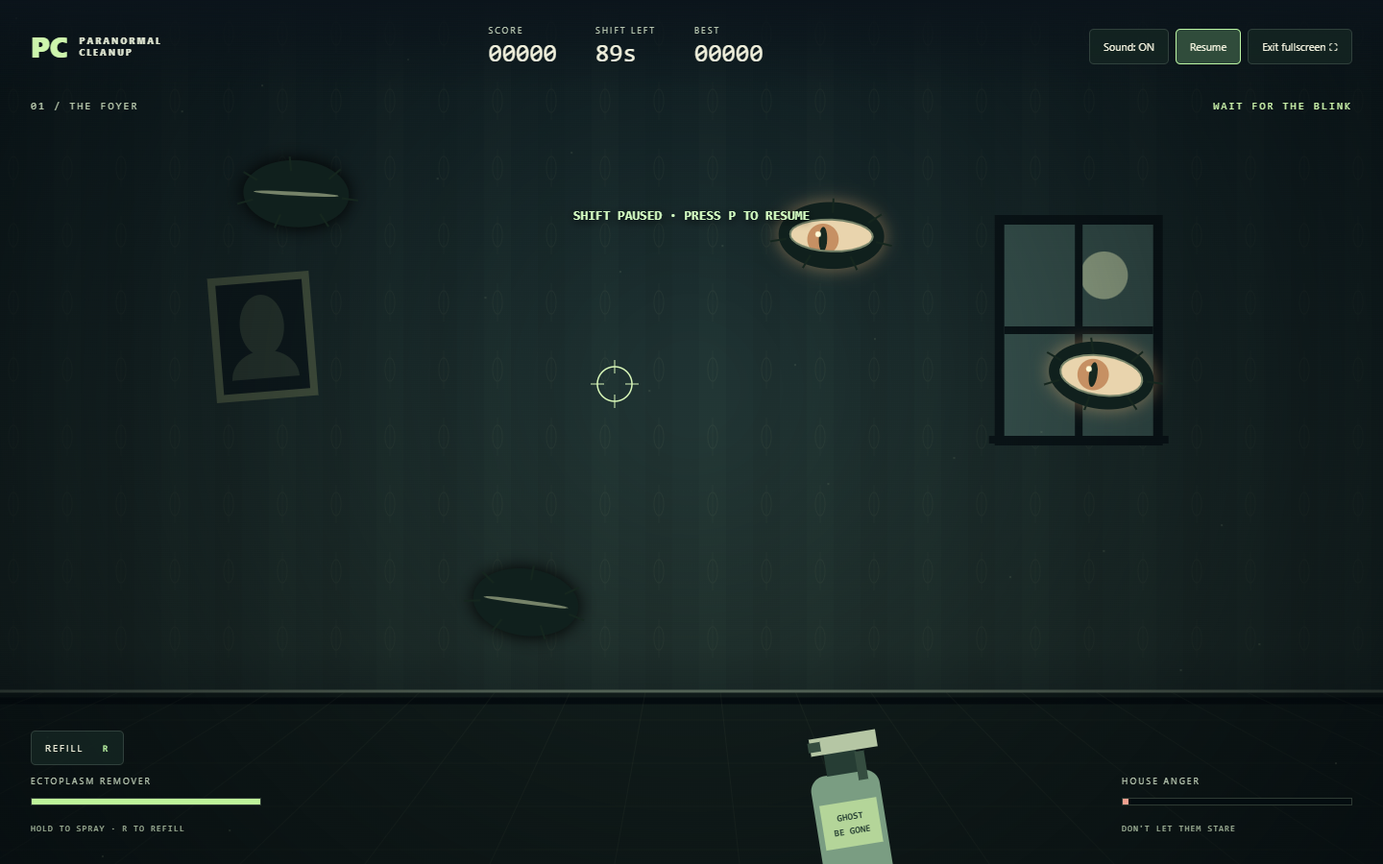
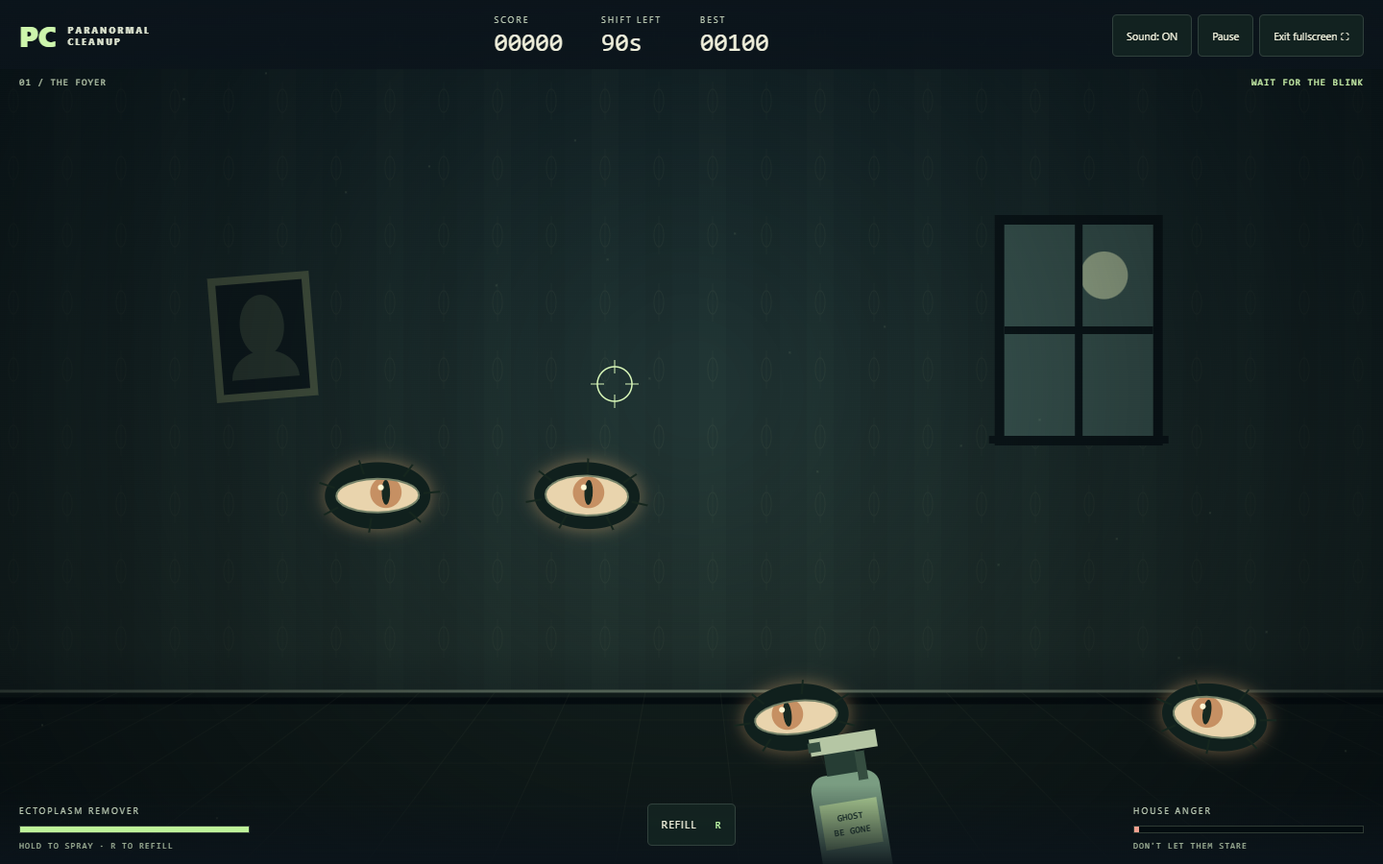
Fix fullscreen, responsive layout and input reliability

diff --git a/game.js b/game.js
@@ -5,22 +5,75 @@
   const $ = id => document.getElementById(id);
   let width=1280,height=800,dpr=1,last=0,clock=0,state='menu',eyes=[],particles=[],labels=[];
   let score=0,cleaned=0,combo=0,maxCombo=0,tank=100,anger=0,remaining=90,spawn=0,refilling=0,shot=0,muted=false,audio;
-  let best=0; try { best=Number(localStorage.getItem('paranormal-cleanup-best'))||0; } catch {}
+  let best=0; try { const saved=Number(localStorage.getItem('paranormal-cleanup-best'));if(Number.isFinite(saved)&&saved>=0)best=Math.floor(saved); } catch {}
   const aim={x:640,y:400,held:false},keys=new Set();
+  let activePointer=null, fullscreenPending=false;
+  let playArea={left:0,right:1280,top:120,bottom:670};
+  const game=$('game');
+  function releaseInput(){aim.held=false;activePointer=null;keys.clear();}
+  function eyeRadius(){return clamp(Math.min(width/15,(playArea.bottom-playArea.top)/4),12,43);}
+  function slots(){
+    const r=eyeRadius(), gap=r*2+20;
+    const columns=Math.max(1,Math.floor((playArea.right-playArea.left)/gap));
+    const rows=Math.max(1,Math.floor((playArea.bottom-playArea.top)/gap));
+    const positions=[];
+    for(let row=0;row<rows;row++)for(let column=0;column<columns;column++)positions.push({u:(column+.5)/columns,v:(row+.5)/rows});
+    return positions;
+  }
+  function positionEye(e){e.r=eyeRadius();e.x=playArea.left+e.u*(playArea.right-playArea.left);e.y=playArea.top+e.v*(playArea.bottom-playArea.top);}
+  function layoutEyes(){
+    const positions=slots();
+    // Keep targets separated after rotation; small viewports have fewer targets.
+    eyes=eyes.slice(0,positions.length);
+    eyes.forEach(e=>{positions.sort((a,b)=>Math.hypot(a.u-e.u,a.v-e.v)-Math.hypot(b.u-e.u,b.v-e.v));Object.assign(e,positions.shift());positionEye(e);});
+  }
+  function focusScene(){canvas.focus({preventScroll:true});}
+  function notify(message){$('toast').textContent=message;setTimeout(()=>{if(state!=='paused'&&$('toast').textContent===message)$('toast').textContent='';},4000);}
+  async function enterFullscreen(){
+    if(document.fullscreenElement||document.webkitFullscreenElement||fullscreenPending)return;
+    const request=game.requestFullscreen||game.webkitRequestFullscreen;
+    if(!request){notify('Fullscreen is not supported here. The game still fills the available screen.');return;}
+    fullscreenPending=true;
+    try{await request.call(game);}catch{notify('Fullscreen is blocked here. Use the itch.io fullscreen launcher or open the game in its own tab.');}
+    finally{fullscreenPending=false;resize();}
+  }
+  function beginShift(){start();void enterFullscreen();}
   const rooms=['THE FOYER','THE PARLOR','THE ATTIC'];
   const random=(a,b)=>a+Math.random()*(b-a), clamp=(v,a,b)=>Math.max(a,Math.min(b,v));
-  function resize(){width=innerWidth;height=innerHeight;dpr=Math.min(devicePixelRatio||1,2);canvas.width=width*dpr;canvas.height=height*dpr;ctx.setTransform(dpr,0,0,dpr,0,0);aim.x=clamp(aim.x,0,width);aim.y=clamp(aim.y,0,height);eyes.forEach(e=>{e.x=e.u*width;e.y=e.v*height;});}
-  addEventListener('resize',resize); resize();
+  function resize(){
+    const bounds=game.getBoundingClientRect();
+    width=Math.max(1,bounds.width);height=Math.max(1,bounds.height);
+    dpr=Math.min(devicePixelRatio||1,2);
+    canvas.width=Math.round(width*dpr);canvas.height=Math.round(height*dpr);ctx.setTransform(dpr,0,0,dpr,0,0);
+    const headerBottom=document.querySelector('.hud').getBoundingClientRect().bottom-bounds.top;
+    game.style.setProperty('--hud-bottom',headerBottom+'px');
+    const statusBottom=document.querySelector('.status').getBoundingClientRect().bottom-bounds.top;
+    const footerTop=document.querySelector('.equipment').getBoundingClientRect().top-bounds.top;
+    playArea={left:12,right:Math.max(13,width-12),top:Math.min(statusBottom+12,height-1),bottom:Math.max(statusBottom+13,footerTop-12)};
+    // In very short embeds, reserve a reachable strip rather than invert aim limits.
+    playArea.top=clamp(playArea.top,0,height-2);playArea.bottom=clamp(playArea.bottom,playArea.top+1,height);
+    aim.x=clamp(aim.x,playArea.left,playArea.right);aim.y=clamp(aim.y,playArea.top,playArea.bottom);
+    layoutEyes();
+  }
+  addEventListener('resize',resize);
+  if(window.visualViewport)window.visualViewport.addEventListener('resize',resize);
+  if(window.ResizeObserver){const observer=new ResizeObserver(resize);observer.observe(game);observer.observe(document.querySelector('.hud'));observer.observe(document.querySelector('.equipment'));}
+  resize();
   function sound(freq,duration=.08,type='sine',volume=.025){if(muted)return;try{audio ||= new (window.AudioContext||window.webkitAudioContext)();audio.resume();const o=audio.createOscillator(),g=audio.createGain();o.type=type;o.frequency.setValueAtTime(freq,audio.currentTime);o.frequency.exponentialRampToValueAtTime(Math.max(30,freq/2),audio.currentTime+duration);g.gain.setValueAtTime(volume,audio.currentTime);g.gain.exponentialRampToValueAtTime(.001,audio.currentTime+duration);o.connect(g);g.connect(audio.destination);o.start();o.stop(audio.currentTime+duration);}catch{}}
-  function addEye(){const top=Math.min(.34,140/height),bottom=Math.max(top+.12,1-155/height);let u,v;for(let n=0;n<30;n++){u=random(.1,.9);v=random(top,bottom);if(eyes.every(e=>Math.hypot(e.x-u*width,e.y-v*height)>80))break;}eyes.push({u,v,x:u*width,y:v*height,r:clamp(width/22,24,43),age:0,offset:random(0,3),hp:1,seed:random(0,10)});}
+  function addEye(){
+    const positions=slots().filter(p=>eyes.every(e=>Math.abs(e.u-p.u)>.001||Math.abs(e.v-p.v)>.001));
+    if(!positions.length)return;
+    const p=positions[Math.floor(Math.random()*positions.length)];
+    const e={...p,r:eyeRadius(),age:0,offset:random(0,3),hp:1,seed:random(0,10)};positionEye(e);eyes.push(e);
+  }
   function openness(e){return clamp((Math.sin((e.age+e.offset)*2.4)-.1)*2.4,0,1);}
-  function hud(){$('score').textContent=String(score).padStart(5,'0');$('time').textContent=Math.ceil(remaining)+'s';$('best').textContent=String(best).padStart(5,'0');$('tank').style.width=tank+'%';$('anger').style.width=anger+'%';$('tankLabel').textContent=refilling>0?'REFILLING…':tank<1?'EMPTY · R TO REFILL':'HOLD TO SPRAY · R TO REFILL';$('room').textContent=`0${Math.min(3,1+Math.floor((90-remaining)/30))} / ${rooms[Math.min(2,Math.floor((90-remaining)/30))]}`;$('combo').textContent=combo>1?`CLEAN STREAK ×${combo}`:'WAIT FOR THE BLINK';}
-  function start(){state='playing';eyes=[];particles=[];labels=[];score=cleaned=combo=maxCombo=anger=refilling=shot=0;tank=100;remaining=90;spawn=.7;aim.held=false;keys.clear();for(let i=0;i<3;i++)addEye();$('overlay').classList.add('hidden');$('pause').textContent='Pause';sound(400,.15);hud();}
+  function hud(){$('pause').disabled=state!=='playing'&&state!=='paused';$('refill').disabled=state!=='playing'||refilling>0;$('score').textContent=String(score).padStart(5,'0');$('time').textContent=Math.ceil(remaining)+'s';$('best').textContent=String(best).padStart(5,'0');$('tank').style.width=tank+'%';$('anger').style.width=anger+'%';$('tankLabel').textContent=refilling>0?'REFILLING…':tank<1?'EMPTY · R TO REFILL':'HOLD TO SPRAY · R TO REFILL';$('room').textContent=`0${Math.min(3,1+Math.floor((90-remaining)/30))} / ${rooms[Math.min(2,Math.floor((90-remaining)/30))]}`;$('combo').textContent=combo>1?`CLEAN STREAK ×${combo}`:'WAIT FOR THE BLINK';}
+  function start(){state='playing';eyes=[];particles=[];labels=[];score=cleaned=combo=maxCombo=anger=refilling=shot=0;tank=100;remaining=90;spawn=.7;releaseInput();$('toast').textContent='';resize();for(let i=0;i<3;i++)addEye();$('overlay').classList.add('hidden');$('pause').textContent='Pause';sound(400,.15);hud();focusScene();}
   function refill(){if(state!=='playing'||refilling>0||tank>=99)return;refilling=1.3;aim.held=false;sound(180,.2,'triangle');}
-  function pause(){if(state!=='playing'&&state!=='paused')return;state=state==='playing'?'paused':'playing';aim.held=false;keys.clear();$('pause').textContent=state==='paused'?'Resume':'Pause';$('toast').textContent=state==='paused'?'SHIFT PAUSED · PRESS P TO RESUME':'';}
-  function finish(win){state='over';aim.held=false;const newBest=score>best;best=Math.max(best,score);try{localStorage.setItem('paranormal-cleanup-best',String(best));}catch{}hud();sound(win?650:100,.5,'triangle');$('overlay').innerHTML=`<div class="menu"><p class="eyebrow">MIDNIGHT MAINTENANCE CO. / SHIFT REPORT</p><h1>${win?'SHIFT':'HOUSE'}<br><em>${win?'COMPLETE':'AWAKENED'}</em></h1><p class="tagline">${win?'Another night. Another suspiciously clean house.':'You let the walls stare a little too long.'}</p><div class="result-grid"><div><small>FINAL SCORE</small><strong class="result">${score.toLocaleString()}</strong></div><div><small>EYES CLEANED</small><strong class="result">${cleaned}</strong></div><div><small>BEST STREAK</small><strong class="result">×${maxCombo}</strong></div></div><p class="result">${newBest?'✦ New personal best! ':''}${win?'Your shift is over. The infestation will return.':'Catch open eyes quickly to keep the house calm.'}</p><button class="primary" id="again">CLOCK IN AGAIN <span>→</span></button><p class="fine">TRIJAM #393 · THE WALLS HAVE EYES</p></div>`;$('overlay').classList.remove('hidden');$('again').onclick=start;}
-  function spray(){tank=Math.max(0,tank-1.25);sound(random(600,1000),.035,'sawtooth',.009);let hit=false;for(const e of eyes){if(Math.hypot(e.x-aim.x,e.y-aim.y)<e.r+20&&openness(e)>.55){hit=true;e.hp-=.34;for(let i=0;i<8;i++)particles.push({x:e.x,y:e.y,vx:random(-100,100),vy:random(-100,100),life:random(.2,.6),color:'#c4f7a2'});if(e.hp<=0){combo++;maxCombo=Math.max(combo,maxCombo);const points=100+Math.min(combo-1,10)*25;score+=points;cleaned++;anger=Math.max(0,anger-6);labels.push({x:e.x,y:e.y,text:'+'+points,life:1});sound(400+combo*25,.12,'triangle');}}}eyes=eyes.filter(e=>e.hp>0);if(!hit)combo=0;for(let i=0;i<5;i++)particles.push({x:aim.x+random(-20,20),y:aim.y+random(-20,20),vx:random(-35,35),vy:random(-60,20),life:.3,color:'#9ee0d3'});}
-  function update(dt){clock+=dt;if(state!=='playing')return;remaining=Math.max(0,remaining-dt);const speed=360*dt;if(keys.has('ArrowLeft')||keys.has('a'))aim.x-=speed;if(keys.has('ArrowRight')||keys.has('d'))aim.x+=speed;if(keys.has('ArrowUp')||keys.has('w'))aim.y-=speed;if(keys.has('ArrowDown')||keys.has('s'))aim.y+=speed;aim.x=clamp(aim.x,0,width);aim.y=clamp(aim.y,120,height-130);eyes.forEach(e=>e.age+=dt);spawn-=dt;const level=Math.floor((90-remaining)/30);if(spawn<=0){if(eyes.length<7+level*2)addEye();spawn=Math.max(.8,2.2-level*.45);}anger=clamp(anger+dt*(eyes.reduce((n,e)=>n+(openness(e)>.55?1:0),0)*.9+.08),0,100);if(refilling>0){refilling-=dt;if(refilling<=0){refilling=0;tank=100;sound(550,.1);}}else if((aim.held||keys.has(' '))&&tank>0){shot-=dt;if(shot<=0){spray();shot=.07;}}else shot=0;particles.forEach(p=>{p.x+=p.vx*dt;p.y+=p.vy*dt;p.life-=dt;});particles=particles.filter(p=>p.life>0);labels.forEach(p=>{p.y-=25*dt;p.life-=dt;});labels=labels.filter(p=>p.life>0);hud();if(anger>=100)finish(false);else if(remaining<=0)finish(true);}
+  function pause(){if(state!=='playing'&&state!=='paused')return;state=state==='playing'?'paused':'playing';releaseInput();focusScene();$('pause').textContent=state==='paused'?'Resume':'Pause';$('toast').textContent=state==='paused'?'SHIFT PAUSED · PRESS P TO RESUME':'';}
+  function finish(win){state='over';releaseInput();$('toast').textContent='';const newBest=score>best;best=Math.max(best,score);try{localStorage.setItem('paranormal-cleanup-best',String(best));}catch{}hud();sound(win?650:100,.5,'triangle');$('overlay').innerHTML=`<div class="menu"><p class="eyebrow">MIDNIGHT MAINTENANCE CO. / SHIFT REPORT</p><h1>${win?'SHIFT':'HOUSE'}<br><em>${win?'COMPLETE':'AWAKENED'}</em></h1><p class="tagline">${win?'Another night. Another suspiciously clean house.':'You let the walls stare a little too long.'}</p><div class="result-grid"><div><small>FINAL SCORE</small><strong class="result">${score.toLocaleString()}</strong></div><div><small>EYES CLEANED</small><strong class="result">${cleaned}</strong></div><div><small>BEST STREAK</small><strong class="result">×${maxCombo}</strong></div></div><p class="result">${newBest?'✦ New personal best! ':''}${win?'Your shift is over. The infestation will return.':'Catch open eyes quickly to keep the house calm.'}</p><button class="primary" id="again">CLOCK IN AGAIN <span>→</span></button><p class="fine">TRIJAM #393 · THE WALLS HAVE EYES</p></div>`;$('overlay').classList.remove('hidden');$('again').onclick=beginShift;$('again').focus({preventScroll:true});}
+  function spray(){tank=Math.max(0,tank-1.25);sound(random(600,1000),.035,'sawtooth',.009);let hit=false;for(const e of eyes){if(Math.hypot(e.x-aim.x,e.y-aim.y)<e.r+10&&openness(e)>.55){hit=true;e.hp-=.34;for(let i=0;i<8;i++)particles.push({x:e.x,y:e.y,vx:random(-100,100),vy:random(-100,100),life:random(.2,.6),color:'#c4f7a2'});if(e.hp<=0){combo++;maxCombo=Math.max(combo,maxCombo);const points=100+Math.min(combo-1,10)*25;score+=points;cleaned++;anger=Math.max(0,anger-6);labels.push({x:e.x,y:e.y,text:'+'+points,life:1});sound(400+combo*25,.12,'triangle');}}}eyes=eyes.filter(e=>e.hp>0);if(!hit)combo=0;for(let i=0;i<5;i++)particles.push({x:aim.x+random(-20,20),y:aim.y+random(-20,20),vx:random(-35,35),vy:random(-60,20),life:.3,color:'#9ee0d3'});}
+  function update(dt){clock+=dt;if(state!=='playing')return;remaining=Math.max(0,remaining-dt);const speed=360*dt;if(keys.has('ArrowLeft')||keys.has('a'))aim.x-=speed;if(keys.has('ArrowRight')||keys.has('d'))aim.x+=speed;if(keys.has('ArrowUp')||keys.has('w'))aim.y-=speed;if(keys.has('ArrowDown')||keys.has('s'))aim.y+=speed;aim.x=clamp(aim.x,playArea.left,playArea.right);aim.y=clamp(aim.y,playArea.top,playArea.bottom);eyes.forEach(e=>e.age+=dt);spawn-=dt;const level=Math.floor((90-remaining)/30);if(spawn<=0){if(eyes.length<7+level*2)addEye();spawn=Math.max(.8,2.2-level*.45);}anger=clamp(anger+dt*(eyes.reduce((n,e)=>n+(openness(e)>.55?1:0),0)*.9+.08),0,100);if(refilling>0){refilling-=dt;if(refilling<=0){refilling=0;tank=100;sound(550,.1);}}else if((aim.held||keys.has(' '))&&tank>0){shot-=dt;while(shot<=0&&tank>0){spray();shot+=.07;}}else shot=0;particles.forEach(p=>{p.x+=p.vx*dt;p.y+=p.vy*dt;p.life-=dt;});particles=particles.filter(p=>p.life>0);labels.forEach(p=>{p.y-=25*dt;p.life-=dt;});labels=labels.filter(p=>p.life>0);hud();if(anger>=100)finish(false);else if(remaining<=0)finish(true);}
   function line(x1,y1,x2,y2,color,widthLine=1){ctx.strokeStyle=color;ctx.lineWidth=widthLine;ctx.beginPath();ctx.moveTo(x1,y1);ctx.lineTo(x2,y2);ctx.stroke();}
   function room(){const floor=height*.8;const g=ctx.createLinearGradient(0,0,0,height);g.addColorStop(0,'#15282d');g.addColorStop(.75,'#263a36');g.addColorStop(1,'#0c181d');ctx.fillStyle=g;ctx.fillRect(0,0,width,height);const gap=56;for(let x=0;x<width;x+=gap){ctx.fillStyle=x/gap%2?'#b0c59705':'#00000008';ctx.fillRect(x,0,28,floor);for(let y=35;y<floor;y+=70){ctx.strokeStyle='#bac99110';ctx.beginPath();ctx.ellipse(x+14,y,5,12,0,0,Math.PI*2);ctx.stroke();line(x+14,y-20,x+14,y+20,'#bac9910c');}}ctx.fillStyle='#152321';ctx.fillRect(0,floor,width,height-floor);line(0,floor,width,floor,'#6d8170',3);line(0,floor+10,width,floor+10,'#060f13',7);for(let x=-width;x<width*2;x+=130)line(width/2+(x-width/2)*.6,floor,x,height,'#67765b22');for(let y=floor+30;y<height;y+=45)line(0,y,width,y,'#67765b1a');
     // Crooked portraits and a moonlit window are drawn, not downloaded assets.
@@ -30,8 +83,34 @@
   function eye(e){const open=state==='menu'?.5+.45*Math.sin(clock+e.seed):openness(e),r=e.r;ctx.save();ctx.translate(e.x,e.y);ctx.rotate(Math.sin(e.seed)*.15);ctx.shadowBlur=18;ctx.shadowColor=open>.55?'#e0ac7280':'#000';ctx.fillStyle='#10201d';ctx.beginPath();ctx.ellipse(0,0,r+12,r*.6+9,0,0,Math.PI*2);ctx.fill();ctx.shadowBlur=0;for(let i=0;i<7;i++){const a=i*.9+e.seed;line(Math.cos(a)*(r+5),Math.sin(a)*r*.55,Math.cos(a)*(r+22),Math.sin(a)*r*.9,'#15261e',2);}if(open>.03){ctx.save();ctx.beginPath();ctx.ellipse(0,0,r,r*.48*open,0,0,Math.PI*2);ctx.clip();ctx.fillStyle='#e9d4ad';ctx.fillRect(-r,-r,r*2,r*2);const px=clamp((aim.x-e.x)/150,-1,1)*r*.2,py=clamp((aim.y-e.y)/150,-1,1)*r*.1;ctx.fillStyle=e.hp<1?'#b8e399':'#c69063';ctx.beginPath();ctx.arc(px,py,r*.38,0,Math.PI*2);ctx.fill();ctx.fillStyle='#172820';ctx.beginPath();ctx.ellipse(px,py,r*.1,r*.3,0,0,Math.PI*2);ctx.fill();ctx.fillStyle='#fff9d5';ctx.beginPath();ctx.arc(px-r*.12,py-r*.12,r*.07,0,Math.PI*2);ctx.fill();ctx.restore();}ctx.strokeStyle='#768369';ctx.lineWidth=2;ctx.beginPath();ctx.ellipse(0,0,r,Math.max(1,r*.48*open),0,0,Math.PI*2);ctx.stroke();ctx.restore();}
   function bottle(){const x=width*.62+Math.sin(clock*2)*2,y=height+8;ctx.save();ctx.translate(x,y);ctx.rotate(-.16);ctx.fillStyle='#7a9d82';ctx.beginPath();ctx.roundRect(-36,-104,72,135,16);ctx.fill();ctx.fillStyle='#b4d599';ctx.fillRect(-30,-74,60,47);ctx.fillStyle='#243d31';ctx.font='bold 10px monospace';ctx.textAlign='center';ctx.fillText('GHOST',0,-55);ctx.fillText('BE GONE',0,-40);ctx.fillStyle='#263d34';ctx.fillRect(-17,-129,34,26);ctx.fillStyle='#b5c6a4';ctx.fillRect(-30,-144,70,18);ctx.fillStyle='#354d40';ctx.fillRect(-32,-140,13,10);ctx.fillRect(15,-124,10,30);ctx.restore();}
   function draw(){ctx.clearRect(0,0,width,height);room();if(state==='menu'){[{x:width*.48,y:height*.3,r:35,seed:1},{x:width*.85,y:height*.58,r:30,seed:3},{x:width*.12,y:height*.63,r:38,seed:5}].forEach(eye);}else eyes.forEach(eye);particles.forEach(p=>{ctx.globalAlpha=clamp(p.life*3,0,1);ctx.fillStyle=p.color;ctx.beginPath();ctx.arc(p.x,p.y,3,0,Math.PI*2);ctx.fill();});ctx.globalAlpha=1;labels.forEach(p=>{ctx.globalAlpha=p.life;ctx.fillStyle='#d5ffb3';ctx.font='bold 20px monospace';ctx.textAlign='center';ctx.fillText(p.text,p.x,p.y);});ctx.globalAlpha=1;bottle();if(state==='playing'||state==='paused'){ctx.strokeStyle=refilling>0?'#efbc8d':'#d8f7b8';ctx.lineWidth=1.5;ctx.beginPath();ctx.arc(aim.x,aim.y,18,0,Math.PI*2);ctx.stroke();line(aim.x-25,aim.y,aim.x-11,aim.y,ctx.strokeStyle);line(aim.x+11,aim.y,aim.x+25,aim.y,ctx.strokeStyle);line(aim.x,aim.y-25,aim.x,aim.y-11,ctx.strokeStyle);line(aim.x,aim.y+11,aim.x,aim.y+25,ctx.strokeStyle);if(anger>70){ctx.fillStyle=`rgba(155,40,35,${.08+.05*Math.sin(clock*5)})`;ctx.fillRect(0,0,width,height);}}}
-  function frame(t){const dt=Math.min((t-last)/1000,.05);last=t;update(dt);draw();requestAnimationFrame(frame);}
-  canvas.addEventListener('pointerdown',e=>{if(state!=='playing')return;aim.x=e.clientX;aim.y=e.clientY;aim.held=true;canvas.setPointerCapture(e.pointerId);});canvas.addEventListener('pointermove',e=>{aim.x=e.clientX;aim.y=e.clientY;});canvas.addEventListener('pointerup',()=>aim.held=false);canvas.addEventListener('pointercancel',()=>aim.held=false);
-  addEventListener('keydown',e=>{if([' ','ArrowUp','ArrowDown','ArrowLeft','ArrowRight'].includes(e.key))e.preventDefault();if(e.repeat)return;keys.add(e.key.length===1?e.key.toLowerCase():e.key);if(e.key.toLowerCase()==='r')refill();if(e.key.toLowerCase()==='p'||e.key==='Escape'&&!document.fullscreenElement)pause();if(e.key==='Enter'&&(state==='menu'||state==='over'))start();});addEventListener('keyup',e=>keys.delete(e.key.length===1?e.key.toLowerCase():e.key));addEventListener('blur',()=>{if(state==='playing')pause();});document.addEventListener('visibilitychange',()=>{if(document.hidden&&state==='playing')pause();});
-  $('start').onclick=start;$('refill').onclick=refill;$('pause').onclick=pause;$('sound').onclick=()=>{muted=!muted;$('sound').textContent='Sound: '+(muted?'OFF':'ON');};$('fullscreen').onclick=async()=>{try{if(document.fullscreenElement)await document.exitFullscreen();else await $('game').requestFullscreen();}catch{$('toast').textContent='Fullscreen unavailable here. Try opening the game in its own tab.';setTimeout(()=>{if(state!=='paused')$('toast').textContent='';},4000);}};document.addEventListener('fullscreenchange',()=>{$('fullscreen').textContent=document.fullscreenElement?'Exit fullscreen ⛶':'Fullscreen ⛶';});hud();requestAnimationFrame(frame);
+  function frame(t){const dt=last?Math.min((t-last)/1000,.25):0;last=t;update(dt);draw();requestAnimationFrame(frame);}
+  function pointerAim(e){const rect=canvas.getBoundingClientRect();aim.x=clamp((e.clientX-rect.left)*width/rect.width,playArea.left,playArea.right);aim.y=clamp((e.clientY-rect.top)*height/rect.height,playArea.top,playArea.bottom);}
+  canvas.addEventListener('pointerdown',e=>{if(state!=='playing'||activePointer!==null||e.button!==0)return;pointerAim(e);activePointer=e.pointerId;aim.held=true;focusScene();canvas.setPointerCapture(e.pointerId);});
+  canvas.addEventListener('pointermove',e=>{if(activePointer===null||activePointer===e.pointerId)pointerAim(e);});
+  const endPointer=e=>{if(activePointer===e.pointerId){activePointer=null;aim.held=false;}};
+  canvas.addEventListener('pointerup',endPointer);canvas.addEventListener('pointercancel',endPointer);canvas.addEventListener('lostpointercapture',endPointer);
+  addEventListener('keydown',e=>{
+    const key=e.key.length===1?e.key.toLowerCase():e.key;
+    if(e.target.closest&&e.target.closest('input,textarea,select,a'))return;
+    if(e.target.closest&&e.target.closest('button')&&!['p','r','Escape'].includes(key))return;
+    if([' ','ArrowUp','ArrowDown','ArrowLeft','ArrowRight'].includes(key)&&state==='playing')e.preventDefault();
+    if(e.repeat)return;
+    if(key==='p'||key==='Escape'&&!document.fullscreenElement&&!document.webkitFullscreenElement){pause();return;}
+    if(key==='Enter'&&(state==='menu'||state==='over')){beginShift();return;}
+    if(state!=='playing')return;keys.add(key);if(key==='r')refill();
+  });
+  addEventListener('keyup',e=>keys.delete(e.key.length===1?e.key.toLowerCase():e.key));
+  addEventListener('blur',()=>{releaseInput();if(state==='playing')pause();});
+  document.addEventListener('visibilitychange',()=>{if(document.hidden){releaseInput();if(state==='playing')pause();}});
+  $('start').onclick=beginShift;
+  $('refill').onclick=()=>{refill();focusScene();};$('pause').onclick=pause;
+  $('sound').onclick=()=>{muted=!muted;$('sound').textContent='Sound: '+(muted?'OFF':'ON');if(state==='playing')focusScene();};
+  $('fullscreen').onclick=async()=>{
+    try{if(document.fullscreenElement||document.webkitFullscreenElement){const exit=document.exitFullscreen||document.webkitExitFullscreen;await exit.call(document);}else await enterFullscreen();}
+    catch{notify('Unable to change fullscreen mode.');}
+    if(state==='playing')focusScene();
+  };
+  function fullscreenChanged(){resize();$('fullscreen').textContent=document.fullscreenElement||document.webkitFullscreenElement?'Exit fullscreen ⛶':'Fullscreen ⛶';}
+  document.addEventListener('fullscreenchange',fullscreenChanged);document.addEventListener('webkitfullscreenchange',fullscreenChanged);
+  hud();requestAnimationFrame(frame);
 })();

diff --git a/style.css b/style.css
@@ -1,2 +1,25 @@
 
 :root{font-family:system-ui,-apple-system,BlinkMacSystemFont,"Segoe UI",sans-serif;color:#f0f0dc;background:#10161b;font-synthesis:none}*{box-sizing:border-box}body{margin:0;overflow:hidden}button,a{-webkit-tap-highlight-color:transparent}button{font:inherit;color:inherit;cursor:pointer;border:1px solid #83958c44;background:#142522cc;border-radius:5px;padding:10px 14px}button:hover{background:#304c3b;border-color:#bdf7a5}button:focus-visible{outline:3px solid #c3ffa4;outline-offset:4px}#game{position:relative;width:100vw;height:100dvh;min-height:320px;overflow:hidden;background:#10161b}canvas{display:block;width:100%;height:100%;touch-action:none}.hud{position:absolute;inset:0 0 auto;display:flex;align-items:center;justify-content:space-between;padding:25px 32px;gap:18px;background:linear-gradient(#0b141bef,transparent);pointer-events:none}.hud>*{pointer-events:auto}.brand{display:flex;gap:12px;align-items:center;font-weight:900;font-size:30px;text-decoration:none;color:#cdf5ac}.brand span{font-size:9px;letter-spacing:2px;color:#dce3cf}.stats{display:flex;gap:40px}.stats div{display:flex;flex-direction:column;gap:3px}small{font-size:9px;letter-spacing:2px;color:#b8c7b1}.stats strong{font-family:monospace;font-size:26px;font-weight:500}.tools{display:flex;gap:7px}.tools button{font-size:11px}.status{position:absolute;top:104px;left:32px;right:32px;display:flex;justify-content:space-between;font:11px monospace;letter-spacing:2px;color:#b5c6aa;pointer-events:none}#combo{color:#cdf5ac}.equipment{position:absolute;bottom:30px;left:32px;right:32px;display:flex;justify-content:space-between;pointer-events:none}.equipment>div{width:240px}.tank{margin:10px 0;height:8px;background:#040d10;border:1px solid #84977b55;overflow:hidden}.tank i{display:block;height:100%;width:100%;background:#bef49a;transition:width .1s}.danger i{background:#f1a08f;width:0}.equipment span{font:9px monospace;letter-spacing:1px;color:#a5b79c}.refill{position:absolute;bottom:103px;left:32px;font-size:10px;letter-spacing:2px}kbd{margin-left:15px;color:#bdf7a5}.overlay{position:absolute;inset:0;display:grid;place-items:center;background:#071216b3;backdrop-filter:blur(5px);overflow-y:auto;padding:80px 25px 30px}.overlay.hidden{display:none}.menu{max-width:570px;width:100%;position:relative}.eyebrow{font:10px monospace;letter-spacing:2px;color:#adbd9e}h1{position:relative;font-size:clamp(38px,6.5vw,75px);line-height:.94;letter-spacing:-3px;margin:24px 0;color:#ebe9d6;font-weight:900}h1 em{font-style:normal;color:#c3f6a0}.spark{position:absolute;right:0;bottom:0;color:#c3f6a0;font-size:60px}.tagline{font-size:18px;line-height:1.5;color:#c6cdba}.instructions{border-top:1px solid #b4c49f33;margin-top:25px;padding-top:12px}.instructions>div{display:flex;gap:15px;align-items:start;padding:8px 0;font-size:12px;color:#abb7a8;line-height:1.5}.instructions b{font:12px monospace;color:#bdf7a5}.instructions strong{color:#e5eadb}.primary{display:flex;width:100%;justify-content:space-between;align-items:center;margin-top:22px;padding:17px 20px;background:#c5f3a4;color:#18221a;border:0;font-weight:800;font-size:13px;letter-spacing:2px}.primary:hover{background:#e0ffc7;color:#18221a}.primary span{font-size:24px;line-height:1}.fine{font:8px monospace;color:#819384;letter-spacing:1px;margin-top:17px}#toast{position:absolute;left:50%;top:24%;transform:translateX(-50%);font:bold 14px monospace;color:#d6ffc4;pointer-events:none;text-shadow:0 2px 8px #000}.result{font-size:15px;line-height:1.8;color:#ccd5bf}.result strong{color:#c3f6a0;font-size:28px}.result-grid{display:flex;gap:40px;margin:20px 0}.result-grid div{display:flex;flex-direction:column}.result-grid small{margin-bottom:6px}@media(max-width:700px){.hud{padding:15px;flex-wrap:wrap}.brand span{display:none}.stats{gap:18px}.stats strong{font-size:20px}.tools{margin-left:auto}.tools button{padding:8px;font-size:9px}.status{left:15px;right:15px;top:95px;font-size:9px;letter-spacing:1px}.equipment{left:15px;right:15px;bottom:20px;gap:30px}.equipment>div{width:40%}.refill{left:15px;bottom:85px}.overlay{padding-top:105px}.menu{max-width:450px}.spark{font-size:40px}.eyebrow{font-size:8px}h1{letter-spacing:-2px}.instructions>div{font-size:11px}.fine{font-size:7px}}@media(max-height:650px) and (min-width:701px){.overlay{padding-top:85px}.menu{max-width:600px}h1{font-size:48px;margin:10px 0}.tagline{font-size:14px;margin:10px 0}.instructions{margin-top:12px}.instructions>div{padding:4px 0}.primary{margin-top:12px;padding:12px 18px}.fine{margin:10px 0}}
+/* Viewport layout: content never imposes a minimum height on the game. */
+html,body{width:100%;height:100%;margin:0;overflow:hidden}
+#game{width:100%;height:100vh;height:100dvh;min-height:0;--hud-bottom:100px;--footer-height:92px}
+#game:fullscreen,#game:-webkit-full-screen{width:100%;height:100%}
+canvas{position:absolute;inset:0;outline:none}
+button{min-height:44px;touch-action:manipulation}
+button:disabled{opacity:.45;cursor:default}
+.hud{z-index:3;display:grid;grid-template-columns:auto 1fr auto;gap:16px;padding:max(14px,env(safe-area-inset-top)) max(20px,env(safe-area-inset-right)) 12px max(20px,env(safe-area-inset-left));background:linear-gradient(#0b141bf5,#0b141be0)}
+.stats{justify-content:center;gap:clamp(12px,3vw,40px)}
+.stats strong{font-size:clamp(18px,2vw,26px)}
+.tools{gap:6px}.tools button{white-space:nowrap}
+.status{top:var(--hud-bottom);left:max(20px,env(safe-area-inset-left));right:max(20px,env(safe-area-inset-right));padding:8px 0;flex-wrap:wrap;gap:5px 15px;font-size:10px;letter-spacing:1px}
+.equipment{bottom:0;left:0;right:0;display:grid;grid-template-columns:minmax(0,240px) auto minmax(0,240px);align-items:center;gap:16px;padding:14px max(20px,env(safe-area-inset-right)) max(14px,env(safe-area-inset-bottom)) max(20px,env(safe-area-inset-left));background:linear-gradient(transparent,#0b141be8);pointer-events:none}
+.equipment>div{width:auto;min-width:0}.equipment span{display:block}.tank{margin:8px 0}.tank i{transition:none}
+.refill{position:static;pointer-events:auto;font-size:11px;letter-spacing:1px}
+.overlay{z-index:2;inset:var(--hud-bottom) 0 0;display:flex;padding:25px max(24px,env(safe-area-inset-right)) max(24px,env(safe-area-inset-bottom)) max(24px,env(safe-area-inset-left));overscroll-behavior:contain}
+.menu{margin:auto;flex:0 0 auto}.eyebrow{overflow-wrap:anywhere}
+h1{font-size:clamp(20px,8vw,75px);line-height:.98;letter-spacing:-.04em}.spark{font-size:.65em}
+.fine{line-height:1.6}#toast{z-index:4;top:calc(var(--hud-bottom) + 42px);width:min(90%,540px);text-align:center;font: bold 12px/1.5 monospace}
+.result-grid{display:grid;grid-template-columns:repeat(3,minmax(0,1fr));gap:12px}.result-grid strong{color:#c3f6a0;font-size:24px}
+@media(max-width:800px){.brand span{display:none}.hud{gap:8px;padding:max(8px,env(safe-area-inset-top)) max(12px,env(safe-area-inset-right)) 8px max(12px,env(safe-area-inset-left))}.tools button{padding:8px;font-size:10px}.equipment{gap:12px;padding-left:max(12px,env(safe-area-inset-left));padding-right:max(12px,env(safe-area-inset-right))}.status{left:max(12px,env(safe-area-inset-left));right:max(12px,env(safe-area-inset-right))}}
+@media(max-width:540px){.hud{grid-template-columns:auto 1fr}.tools{grid-column:1/-1;display:grid;grid-template-columns:repeat(3,1fr);margin:0}.tools button{min-width:0}.stats{justify-content:space-between;padding-left:10px;gap:10px}.stats strong{font-size:19px}.equipment{grid-template-columns:minmax(0,1fr) auto minmax(0,1fr);gap:8px}.equipment small{font-size:8px;letter-spacing:.3px}.equipment span{font-size:8px;line-height:1.4}.refill{padding:8px;font-size:10px}kbd{display:none}.eyebrow{font-size:8px}.tagline{font-size:15px}.instructions>div{font-size:11px}.fine{font-size:7px}}
+@media(max-height:500px){.hud{padding-top:max(4px,env(safe-area-inset-top));padding-bottom:4px}.tools button{min-height:32px;padding:5px 8px}.brand{font-size:24px}.stats strong{font-size:18px}.status{padding:4px 0;font-size:9px}.equipment{padding-top:5px;padding-bottom:max(5px,env(safe-area-inset-bottom))}.equipment span{display:none}.refill{min-height:32px}.tank{margin:5px 0}.overlay{padding-top:12px;padding-bottom:12px}h1{font-size:clamp(20px,6vw,44px);margin:12px 0}.tagline{font-size:13px;margin:8px 0}.instructions{margin-top:12px;padding-top:6px}.instructions>div{padding:4px 0}.primary{margin-top:12px;padding:12px 18px}}

diff --git a/index.html b/index.html
@@ -10,14 +10,14 @@
 </head>
 <body>
   <main id="game">
-    <canvas id="scene" aria-label="Haunted room. Aim at open eyes and hold to spray."></canvas>
+    <canvas id="scene" tabindex="0" aria-label="Haunted room. Aim at open eyes and hold to spray."></canvas>
     <header class="hud">
-      <a class="brand" href="#" aria-label="Paranormal Cleanup">PC<span>PARANORMAL<br>CLEANUP</span></a>
+      <div class="brand" aria-label="Paranormal Cleanup">PC<span>PARANORMAL<br>CLEANUP</span></div>
       <div class="stats"><div><small>SCORE</small><strong id="score">00000</strong></div><div><small>SHIFT LEFT</small><strong id="time">90s</strong></div><div><small>BEST</small><strong id="best">00000</strong></div></div>
       <div class="tools"><button id="sound" aria-label="Toggle sound">Sound: ON</button><button id="pause">Pause</button><button id="fullscreen">Fullscreen ⛶</button></div>
     </header>
     <aside class="status"><span id="room">01 / THE FOYER</span><span id="combo">WAIT FOR THE BLINK</span></aside>
-    <footer class="equipment"><div><small>ECTOPLASM REMOVER</small><div class="tank"><i id="tank"></i></div><span id="tankLabel">HOLD TO SPRAY · R TO REFILL</span></div><div class="nerve"><small>HOUSE ANGER</small><div class="tank danger"><i id="anger"></i></div><span>DON'T LET THEM STARE</span></div></footer>
+    <footer class="equipment"><div><small>ECTOPLASM REMOVER</small><div class="tank"><i id="tank"></i></div><span id="tankLabel">HOLD TO SPRAY · R TO REFILL</span></div><button id="refill" class="refill">REFILL <kbd>R</kbd></button><div class="nerve"><small>HOUSE ANGER</small><div class="tank danger"><i id="anger"></i></div><span>DON'T LET THEM STARE</span></div></footer>
     <section class="overlay" id="overlay">
       <div class="menu">
         <p class="eyebrow">MIDNIGHT MAINTENANCE CO. / EST. 1893</p>
@@ -28,7 +28,7 @@
         <p class="fine">TRIJAM #393 · THE WALLS HAVE EYES · HEADPHONES RECOMMENDED</p>
       </div>
     </section>
-    <button id="refill" class="refill">REFILL <kbd>R</kbd></button>
+
     <div id="toast" role="status" aria-live="polite"></div>
   </main>
   <script src="game.js"></script>

diff --git a/README.md b/README.md
@@ -20,7 +20,7 @@ Welcome to **Midnight Maintenance Co.** Your assignment sounds simple: clean the
 
 ## How to play
 
-1. Select **Clock In**.
+1. Select **Clock In**. The game requests fullscreen when your browser allows it.
 2. Aim at an eye and **hold to spray while it is open**. Closed eyelids block your spray.
 3. Press **R** or select **Refill** when your bottle runs low. Refilling takes **1.3 seconds**.
 4. Clean eyes before their stares fill the **House Anger** meter.
@@ -45,7 +45,8 @@ Each cleaned eye starts at **100 points**. Consecutive eye cleanups build a stre
 - Original illustrated room, crooked portrait, moonlit window, and animated wall eyes.
 - Three escalating parts of your shift: **The Foyer → The Parlor → The Attic**.
 - Spray particles, floating score popups, and synthesized sound effects.
-- Full-viewport layout with a dedicated **Fullscreen** button.
+- Full-viewport layout, automatic fullscreen request on Clock In, and a dedicated **Fullscreen** toggle.
+- Controls and target positions adapt to portrait, landscape, small embeds, and large displays.
 - Mouse, keyboard, and touch controls.
 - Automatic pause when the window loses focus.
 - Local personal best, saved in your browser when storage is available.
@@ -69,11 +70,17 @@ An upload-ready ZIP is supplied alongside the repository folder. It contains `in
 
 1. Create an itch.io project and choose **HTML** as its kind of project.
 2. Upload the ZIP and select **This file will be played in the browser**.
-3. Enable itch.io’s fullscreen option. The game also includes its own Fullscreen button.
-4. Use a **1280 × 800** embed, or the responsive sizing options available on your project page.
+3. Select **Click to launch in fullscreen** in itch.io’s embed options.
+4. If you prefer **Embed in page**, enable the fullscreen button and use **1280 × 800** as a starting size. The game also adapts to smaller embeds.
 5. Include the controls, credits, and actual development time in the submission description.
 
 Fullscreen availability depends on the browser and the embedding page’s permissions. Mobile browsers that do not support the Fullscreen API still receive a full-viewport layout.
+
+## Quality checks
+
+The responsive revision was checked in desktop Edge with automated viewport tests from **240 × 240** through **3840 × 2160**, including portrait and landscape mobile layouts. Fullscreen entry/exit, blocked fullscreen fallback, target placement, keyboard and pointer controls, touch cancellation, refilling, scoring, pause, victory, defeat, and retry were verified. Spray consumption was compared at 15, 30, 60, and 120 frames per second.
+
+See [QA notes](QA.md) for the tested sizes and browser limitations.
 
 ## Project layout
 

diff --git a/QA.md b/QA.md
@@ -1,0 +1,45 @@
+# Responsive and gameplay QA
+
+## Corrected behavior
+
+- Removed the viewport minimum height that cropped short embeds.
+- Measured the actual game container instead of assuming the browser window size.
+- Reserved the real header and footer areas when spawning and moving targets.
+- Repositioned targets after resize and rotation, with fewer targets when space is limited.
+- Kept menu and results screens scrollable on small displays.
+- Made fullscreen accessible from the title screen and requested it on Clock In.
+- Preserved playability when fullscreen is unavailable or blocked by an embed.
+- Added browser viewport resize handling and supported display safe areas.
+- Removed the fixed keyboard aiming limits.
+- Cleared held input on pause, focus loss, visibility changes, and game over.
+- Isolated the active spray pointer from additional touches.
+- Preserved native keyboard activation of buttons.
+- Made spray cadence consistent across tested frame rates.
+- Ignored invalid saved high scores.
+
+## Verification
+
+Automated browser checks passed in **Microsoft Edge (Chromium), headless mode**.
+
+| Viewport | Checks |
+| --- | --- |
+| 240 × 240 | Reachable start button, visible controls, bounded targets |
+| 280 × 320 | Small menu and retry screen |
+| 320 × 240 | Short embed |
+| 320 × 568 | Small portrait layout |
+| 390 × 844 | Portrait phone layout |
+| 540 × 720 | Narrow layout breakpoint |
+| 640 × 360 | Small landscape layout |
+| 844 × 390 | Landscape phone layout |
+| 1024 × 768 | Tablet-sized layout |
+| 1440 × 900 | Desktop layout |
+| 2560 × 1080 | Wide display |
+| 3840 × 2160 | 4K display |
+
+Across these sizes: no document horizontal overflow, clipped action buttons, or target centers placed outside the playable area. Target radii were also checked against the reserved play area.
+
+Additional checks passed for fullscreen entry/exit, blocked fullscreen fallback, live portrait-landscape resize, pause timer, open-eye damage, closed-eye immunity, scoring, refill, pointer release/cancellation, second-pointer isolation, keyboard controls, focus-loss pause, victory, defeat, and retry. Spray consumption remained within one spray pulse across 15/30/60/120 FPS simulations. The shipping build loaded without JavaScript errors.
+
+## Test boundaries
+
+Phone layouts and touch events were emulated; this is not a physical-device certification. Safari/iOS, Firefox, and the final live itch.io embed were not tested. Fullscreen availability depends on browser support and iframe permissions. For itch.io, select **Click to launch in fullscreen**, upload the updated ZIP, and preview the published embed.
